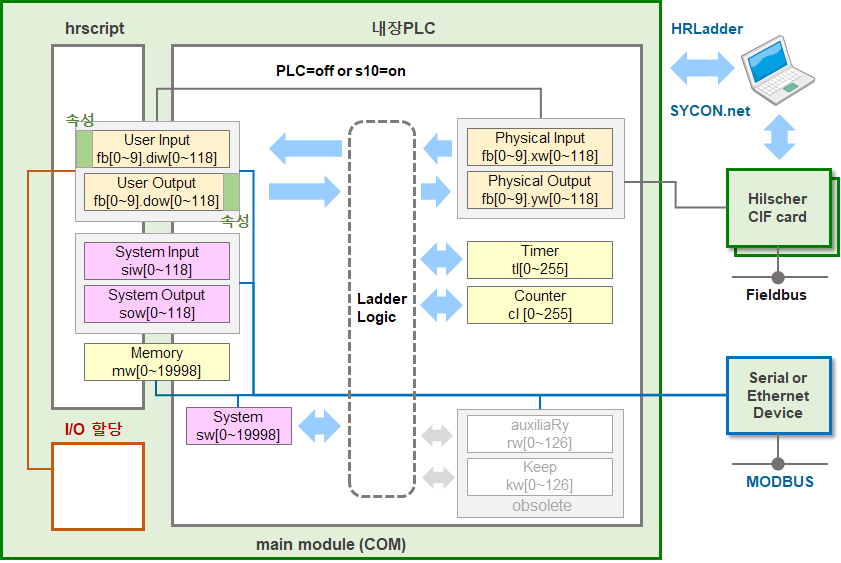
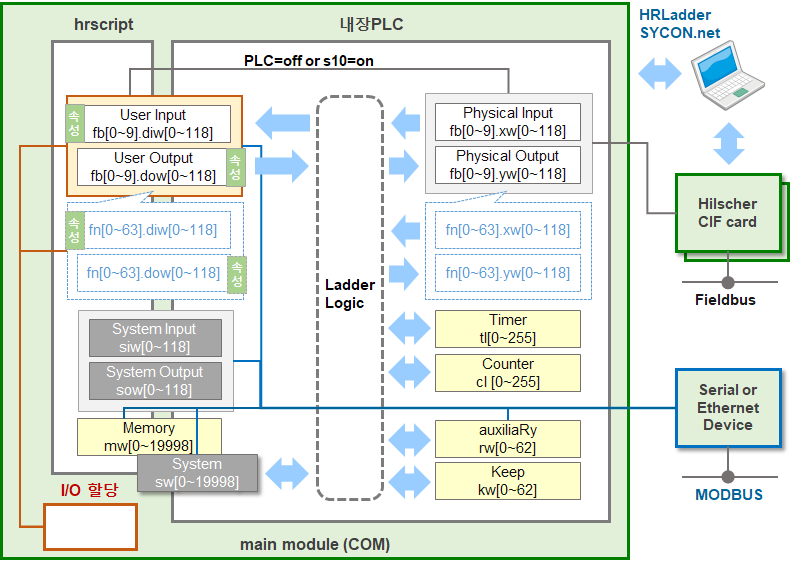
[HIXM-1859] FN에 의한 입출력신호 인터페이스 개발

diff --git a/book.md b/book.md
@@ -173,7 +173,7 @@ R-Stop, R-Run은 Remote-Stop, Remote-Run, 즉 이더넷으로 연결된 PC의 HR
 
 Hi6 로봇제어기 내장PLC에서의 릴레이 표기는 아래와 같습니다.
 
-[FB{block-index}.]{relay-type}[{data-type}]{signal-index}
+`[FB{block-index}.]{relay-type}[{data-type}]{signal-index}`
 
 예를 들어, 아래와 같이 표기됩니다.
 
@@ -181,8 +181,12 @@ Y1501
 FB3.DIW21
 
 * block-index  
-입력과 출력 릴레이는 객체명이 FB0 ~ FB9인 10개의 필드버스 블럭(fieldbus block)으로 그룹핑되어 있습니다. 물리적인 입출력의 경우 각 블럭은 각기 개별적인 필드버스 장치에 매핑됩니다.
+입출력 릴레이(DI, DO, X, Y)는 객체명이 FB0 ~ FB9인 10개의 필드버스 블럭(fieldbus block)으로 그룹핑되어 있습니다. 물리적인 입출력의 경우 각 블럭은 각기 개별적인 필드버스 장치에 매핑됩니다.
 하나의 FB의 크기는 입출력 각각 120 바이트(=960 bit)입니다.
+
+  FB의 일부 영역을 FN0 ~ FN63의 객체명으로 매핑해 사용할 수도 있습니다. FN영역을 설정하는 방법은 아래 링크를 참조하십시오.
+
+  [조작설명서: 7.3.2.12 fn 블럭 할당](https://hrbook-hrc.web.app/#/view/doc-hi6-operation/korean-tp630/7-setting/3-control-parameter/2-io-signal-setting/12-fn-block)
 
 * relay-type  
 아래와 같이 총 10가지 type이 있습니다.
@@ -2844,7 +2848,7 @@ td {border-color:gray;border-style:solid;border-width:1px;text-align:center;}
 
 ### 사용 예
 
-입력 DO14이 on되면 Y14를 off합니다. 이후 DO13이 off 되더라도 Y13은 off을 계속 유지합니다.
+입력 DO14이 on되면 Y14를 off합니다. 이후 DO14이 off 되더라도 Y14은 off을 계속 유지합니다.
 
 ![](../_assets/otu.png)
 # 4.14 OSR(One Shot Rising) : 원 샷 출력

diff --git a/3-relay/2-relay-expression.md b/3-relay/2-relay-expression.md
@@ -2,7 +2,7 @@
 
 Hi6 로봇제어기 내장PLC에서의 릴레이 표기는 아래와 같습니다.
 
-[FB{block-index}.]{relay-type}[{data-type}]{signal-index}
+`[FB{block-index}.]{relay-type}[{data-type}]{signal-index}`
 
 예를 들어, 아래와 같이 표기됩니다.
 
@@ -10,8 +10,12 @@ Y1501
 FB3.DIW21
 
 * block-index  
-입력과 출력 릴레이는 객체명이 FB0 ~ FB9인 10개의 필드버스 블럭(fieldbus block)으로 그룹핑되어 있습니다. 물리적인 입출력의 경우 각 블럭은 각기 개별적인 필드버스 장치에 매핑됩니다.
+입출력 릴레이(DI, DO, X, Y)는 객체명이 FB0 ~ FB9인 10개의 필드버스 블럭(fieldbus block)으로 그룹핑되어 있습니다. 물리적인 입출력의 경우 각 블럭은 각기 개별적인 필드버스 장치에 매핑됩니다.
 하나의 FB의 크기는 입출력 각각 120 바이트(=960 bit)입니다.
+
+  FB의 일부 영역을 FN0 ~ FN63의 객체명으로 매핑해 사용할 수도 있습니다. FN영역을 설정하는 방법은 아래 링크를 참조하십시오.
+
+  [조작설명서: 7.3.2.12 fn 블럭 할당](https://hrbook-hrc.web.app/#/view/doc-hi6-operation/korean-tp630/7-setting/3-control-parameter/2-io-signal-setting/12-fn-block)
 
 * relay-type  
 아래와 같이 총 10가지 type이 있습니다.
